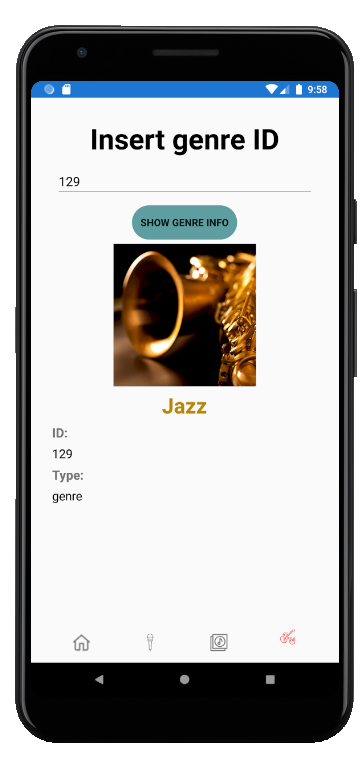
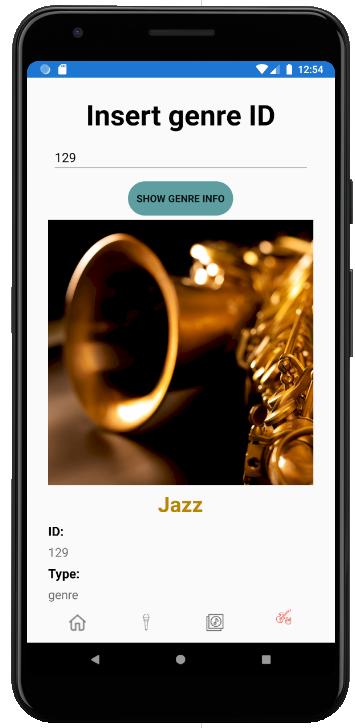
Fixed genre picture sizing and updated GenrePageCapture.png file

diff --git a/DeezerApiIntegration-master/NotSpotifyApp/NotSpotifyApp/Views/GenrePage.xaml b/DeezerApiIntegration-master/NotSpotifyApp/NotSpotifyApp/Views/GenrePage.xaml
@@ -30,7 +30,7 @@
                         HorizontalOptions="CenterAndExpand">
                 </Button>
 
-                <Image Source="{Binding GenreInfo.PictureBig}"/>
+                <Image Source="{Binding GenreInfo.PictureXl}"/>
 
                 <Label TextColor="DarkGoldenrod"
                        FontAttributes="Bold"

diff --git a/DeezerApiIntegration-master/NotSpotifyApp/NotSpotifyApp/Utilities/ApiConfig.cs b/DeezerApiIntegration-master/NotSpotifyApp/NotSpotifyApp/Utilities/ApiConfig.cs
@@ -13,7 +13,7 @@ namespace NotSpotifyApp.Utilities
         public const string ApiHost = "x-rapidapi-host";
         public const string ApiHostValue = "deezerdevs-deezer.p.rapidapi.com";
         public const string ApiKey = "x-rapidapi-key";
-        public const string ApiKeyValue = "Insert api key value here";
+        public const string ApiKeyValue = "Insert the api key value here";
         
     }
 }
